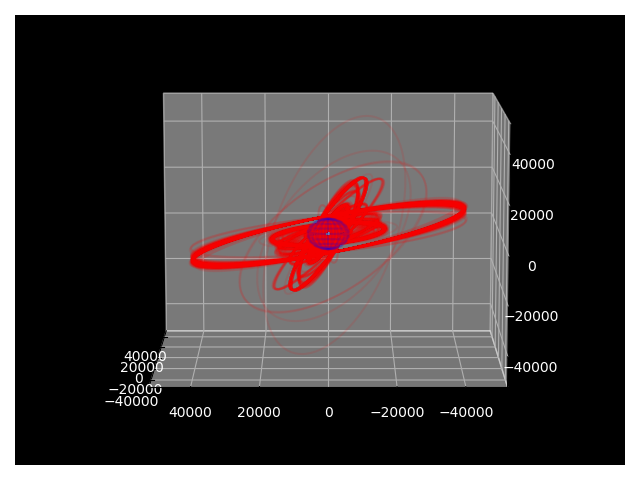
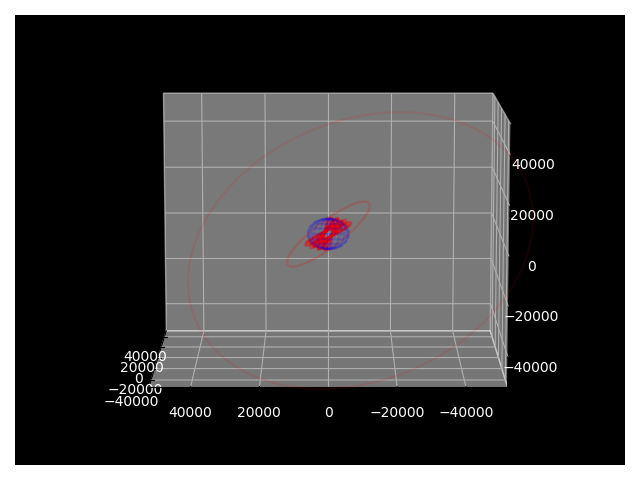
added options

Changed region(s): [[0.2812, 0.3438, 0.75, 0.625]]

diff --git a/frame.html b/frame.html
@@ -19,22 +19,40 @@
         <div class="form-group col-md-4">
         <label for="date">Date:</label>
         <br>
-        <select class="form-control" id="date">
+        <select class="form-control" id="date-drop">
             <option value="default">--</option>
-            <option value="60">1960</option>
-            <option value="61">1961</option>
-            <option value="62">1962</option>
-            <option value="63">1963</option>
-            <option value="64">1964</option>
-            <option value="65">1965</option>
+            <option value="0">1960</option>
+            <option value="1">1970</option>
+            <option value="2">1980</option>
+            <option value="3">1990</option>
+            <option value="4">2000</option>
+            <option value="5">2010</option>
+            <option value="6">now</option>
         </select>
         </div>
         </br>
         <div>
            <!-- <img src="{{ grafica }}"> -->
-           <iframe src="http://127.0.0.1:5000/get_image/2010" height="500" width="100%"></iframe>
+           <iframe id="orbit" src="http://127.0.0.1:5000/get_image/2010" height="500" width="100%"></iframe>
            <!-- <img src="http://127.0.0.1:5000/get_image/2010" alt="2010 Satellites" height="100%" width="100%"> -->
         </div>
+        <script>
+        var drop = {"0":"1960",
+          "1":"1970",
+          "2":"1980",
+          "3":"1990",
+          "4":"2000",
+          "5":"2010",
+          "6":"2020"};
+        var dropD = d3.select("select").on("change", function() {
+          var selected = d3.select("#date-drop").node().value;
+          console.log( drop[selected] );
+          // d3.select("#selected-dropdown").text(selected);
+          var frame = d3.select("#orbit");
+          frame.attr("src", "http://127.0.0.1:5000/get_image/" + drop[selected]);
+        });
+
+        </script>
     </form>
 </body>
 

diff --git a/map.html b/map.html
@@ -39,10 +39,11 @@
 
       <h3 class="h1">Space Map</h3>
         </br>
-      <p>Lorem ipsum dolor, sit amet consectetur adipisicing elit. Impedit assumenda aut atque enim ea obcaecati necessitatibus dolores, voluptas id neque reprehenderit autem officiis alias inventore iste itaque? Numquam deleniti quam nesciunt provident, sapiente iure enim officiis possimus illo nobis sint laboriosam omnis tempore vitae deserunt neque id sunt, perspiciatis exercitationem atque libero tenetur optio illum. Quo commodi iste, ea, non exercitationem reprehenderit harum repudiandae expedita sit voluptas soluta? Quod eum dignissimos quasi perferendis perspiciatis molestias repudiandae reprehenderit architecto quo optio.</p>
+      <p>The following map was compiled with data from the SATCAT y BOXSCORE, which we took from www.space-track.org. We also employed a GeoJson to draw the borderlines per each country. The maps shows all of the nations which have launched vehicles or cargo into space, with varying degrees of color to illustrate the intensity of the activity in space for each country. The map is able to filter and show different items in space depending on their nature (rocket body, payload, debris, and others).
+The data can be viewed per each 10 years of the space race and it was elaborated through a mix of Javascript and HTML element.</p>
       <main class="container-fluid">
            <iframe src="routes/year_map/index_map.html" height="800" width="100%"></iframe>
       </main>
-    
+
 </body>
 </html>

diff --git a/index.html b/index.html
@@ -44,7 +44,7 @@
 
       <h1 class="h1">Where's My Space Junk</h1>
         </br>
-      <p>Lorem ipsum dolor, sit amet consectetur adipisicing elit. Impedit assumenda aut atque enim ea obcaecati necessitatibus dolores, voluptas id neque reprehenderit autem officiis alias inventore iste itaque? Numquam deleniti quam nesciunt provident, sapiente iure enim officiis possimus illo nobis sint laboriosam omnis tempore vitae deserunt neque id sunt, perspiciatis exercitationem atque libero tenetur optio illum. Quo commodi iste, ea, non exercitationem reprehenderit harum repudiandae expedita sit voluptas soluta? Quod eum dignissimos quasi perferendis perspiciatis molestias repudiandae reprehenderit architecto quo optio.</p>
+      <p>How about Mexico? There is no doubt that the United States and the former Soviet Union ruled the space race in the second half of the 20th century. Nowadays, however, there are more and more countries showing their presence in Space. Mexico has embarked on some missions to launch communications satellites and other types of smaller spacecraft. But how many?, you ask? Check out the chart below to see how our country’s space presence has evolved in the past 30 years!</p>
       <main class="container-fluid">
             <div id="plot"></div>
             <div id="gif">
